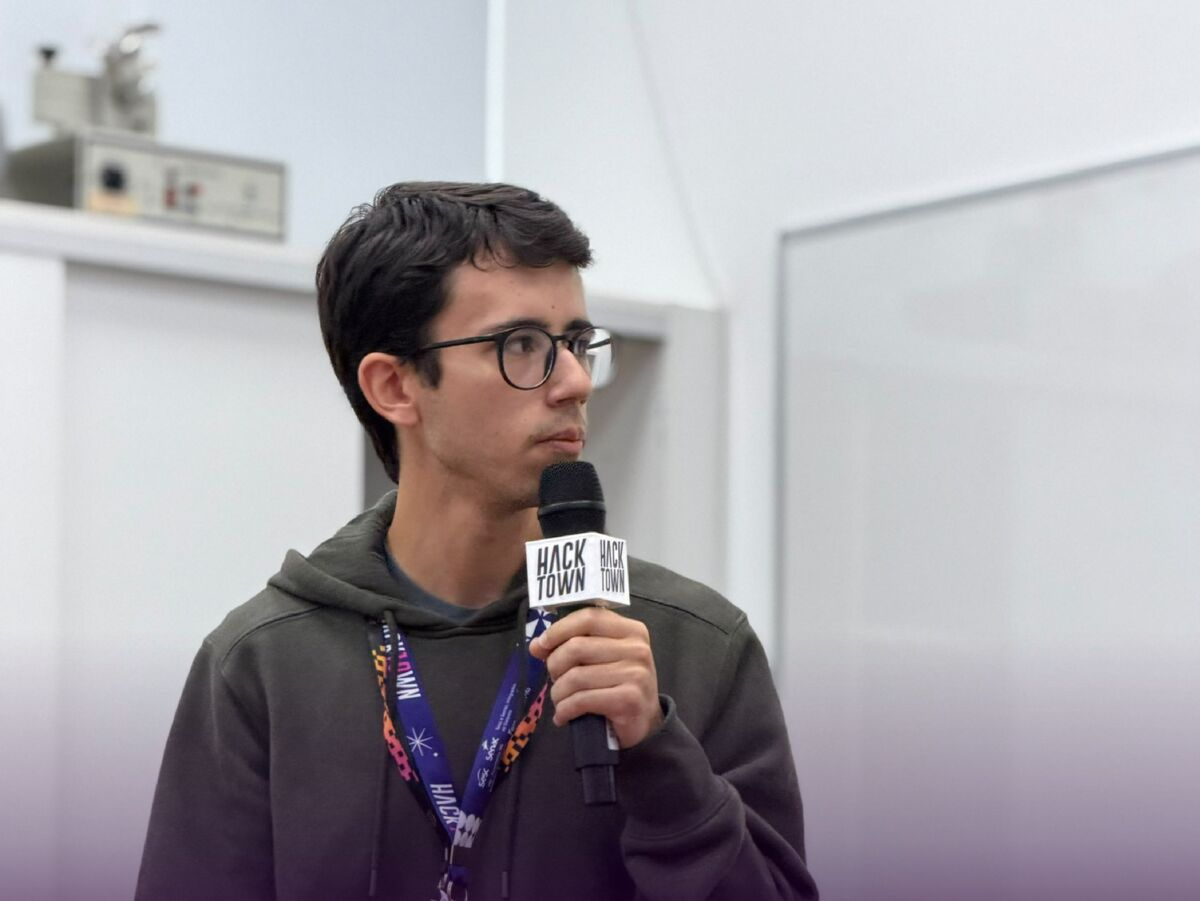
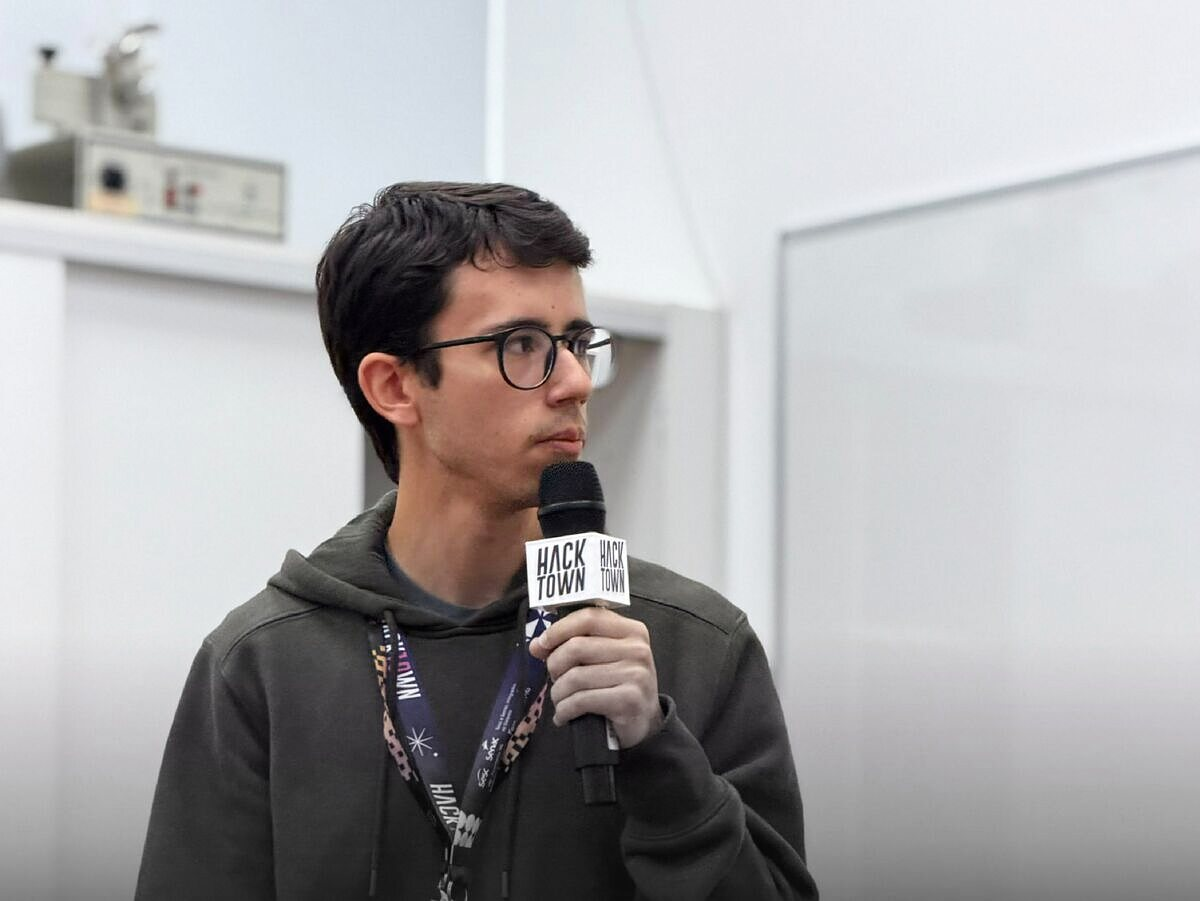
Put photos on the site and keep them out of Google Images (#5)
* Put photos on the site and keep them out of Google Images

HackTown is the main photo in the About section. NASA Space Apps gets its
photo on the talk, a face avatar sits next to the contact intro and the
desktop About window, and the Files app now has a Fotos album with every
portrait plus Startup Weekend 2025 and the favourite one by the sea.

Photos are served at 1200px with metadata stripped, robots.txt blocks
Googlebot-Image from /images/, and photo tags can't be dragged out or
saved from the context menu.

* Grade the photos and frame thumbnails on the face

Each photo is re-processed from the original: light contrast across the
set, the studio portrait loses half of its lavender cast, the sofa shot
gets its contrast back, and the purple fade at the bottom of the HackTown
photo becomes a neutral one. Small sharpening after the resize.

Portrait thumbnails in Files and Palestras now sit on the face instead of
the chest, and the Startup Weekend 2025 photo says he was a participant.

---------

Changed region(s): [[0.3083, 0.7148, 0.4625, 0.9323], [0.4625, 0.6837, 0.555, 0.7769], [0.37, 0.9634, 0.4008, 1.0]]

diff --git a/src/components/desktop/Files.jsx b/src/components/desktop/Files.jsx
@@ -5,10 +5,12 @@ import { ArrowUpRight, ChevronLeft, ChevronRight, FileText, Folder, Image, X } f
 import { projects } from "../../data/projects"
 import { publications } from "../../data/publications"
 import { talks } from "../../data/talks"
+import { photos } from "../../data/photos"
+import { photoGuard } from "../../lib/photoGuard"
 
 /*
  * O app Arquivos: o conteúdo do site arrumado como num Finder. Projetos são
- * pastas, artigos são PDFs e as fotos de palco são imagens. Espaço abre a
+ * pastas, artigos são PDFs e as fotos (palco e retratos) são imagens. Espaço abre a
  * prévia rápida (como o Quick Look do Mac), Enter ou duplo clique abre.
  */
 
@@ -68,7 +70,19 @@ const FOLDERS = [
         caption: talk.title,
         sub: `${talk.location} · ${talk.dateLabel}`,
         links: talk.toolHref ? [{ label: talk.toolLabel, href: talk.toolHref, internal: true }] : [],
-      })),
+      }))
+      .concat(
+        photos.map((photo) => ({
+          id: photo.id,
+          kind: "image",
+          name: `${photo.id}.jpg`,
+          detail: photo.detail,
+          src: photo.src,
+          caption: photo.caption,
+          sub: photo.sub,
+          links: [],
+        }))
+      ),
   },
 ]
 
@@ -89,7 +103,8 @@ function Thumb({ item, size = "lg" }) {
         src={item.src}
         alt=""
         loading="lazy"
-        className={`${size === "lg" ? "h-16 w-20" : "h-5 w-6"} rounded-md border border-line object-cover`}
+        className={`photo-guard ${size === "lg" ? "h-16 w-20" : "h-5 w-6"} rounded-md border border-line object-cover object-[50%_22%]`}
+        {...photoGuard}
       />
     )
   }
@@ -344,7 +359,12 @@ function QuickLook({ items, index, onIndex, onOpen, onClose }) {
         <div className="min-h-0 overflow-y-auto">
           {item.kind === "image" ? (
             <figure>
-              <img src={item.src} alt={item.caption} className="max-h-[70vh] w-full bg-black object-contain" />
+              <img
+                src={item.src}
+                alt={item.caption}
+                className="photo-guard max-h-[70vh] w-full bg-black object-contain"
+                {...photoGuard}
+              />
               <figcaption className="px-5 py-4">
                 <p className="font-medium text-ink">{item.caption}</p>
                 <p className="mt-0.5 text-sm text-muted">

diff --git a/src/components/desktop/AppViews.jsx b/src/components/desktop/AppViews.jsx
@@ -8,6 +8,8 @@ import { publications } from "../../data/publications"
 import { projects } from "../../data/projects"
 import { timelineEntries } from "../../data/timeline"
 import { writing } from "../../data/writing"
+import { portrait } from "../../data/photos"
+import { photoGuard } from "../../lib/photoGuard"
 import { Mark } from "../ui/Mark"
 import { Suspense } from "react"
 import { AiRuler, Eduflow } from "../../pages/lazy"
@@ -60,7 +62,17 @@ function Pane({ eyebrow, title, children }) {
 export function AboutView() {
   return (
     <div className="p-5 md:p-7">
-      <p className="label text-accent">Boas-vindas</p>
+      <div className="flex items-center gap-4">
+        <img
+          src={portrait.src}
+          alt={portrait.alt}
+          width="56"
+          height="56"
+          className="photo-guard h-14 w-14 shrink-0 rounded-full border border-line object-cover"
+          {...photoGuard}
+        />
+        <p className="label text-accent">Boas-vindas</p>
+      </div>
       <h1 className="display mt-3 text-balance text-3xl text-ink md:text-4xl">
         Construo software e ajudo empresas a usar IA{" "}
         <span className="italic text-accent">no lugar certo.</span>
@@ -175,7 +187,8 @@ export function TalksView() {
                 src={talk.photo}
                 alt=""
                 loading="lazy"
-                className="h-16 w-20 shrink-0 rounded-md object-cover"
+                className="photo-guard h-16 w-20 shrink-0 rounded-md object-cover object-[50%_22%]"
+                {...photoGuard}
               />
             ) : (
               <span className="label grid h-16 w-20 shrink-0 place-items-center rounded-md bg-surface-2 text-muted">

diff --git a/src/data/photos.js b/src/data/photos.js
@@ -1,0 +1,44 @@
+/**
+ * Fotos que não são de palco: retratos e momentos. As de palestra e mentoria
+ * ficam no campo `photo` de src/data/talks.js. Tudo é servido já reduzido
+ * (1200px no lado maior, sem metadados) e o robots.txt tira /images/ do
+ * Google Imagens.
+ */
+/** Avatar quadrado (rosto recortado de retrato.jpg) para contato e "Sobre mim". */
+export const portrait = {
+  src: "/images/photos/avatar.jpg",
+  alt: "Luis Ricardo Santos sorrindo",
+}
+
+export const photos = [
+  {
+    id: "startup-weekend-2025",
+    src: "/images/talks/startup-weekend-2025.jpg",
+    caption: "Participante no Startup Weekend 2025",
+    detail: "Startup Weekend Smart Cities",
+    sub: "Participante · 2025",
+  },
+  { id: "retrato", src: "/images/photos/retrato.jpg", caption: "Retrato", detail: "Retrato", sub: "Tech for Humans" },
+  {
+    id: "retrato-perfil",
+    src: "/images/photos/retrato-perfil.jpg",
+    caption: "Retrato",
+    detail: "Retrato",
+    sub: "Tech for Humans",
+  },
+  {
+    id: "retrato-estudio",
+    src: "/images/photos/retrato-estudio.jpg",
+    caption: "Retrato em estúdio",
+    detail: "Retrato",
+    sub: "Ensaio",
+  },
+  {
+    id: "retrato-sofa",
+    src: "/images/photos/retrato-sofa.jpg",
+    caption: "Retrato",
+    detail: "Retrato",
+    sub: "Ensaio",
+  },
+  { id: "mar", src: "/images/photos/mar.jpg", caption: "A favorita", detail: "Fora do expediente", sub: "No mar" },
+]

diff --git a/src/components/sections/Contact.jsx b/src/components/sections/Contact.jsx
@@ -2,6 +2,8 @@ import { ArrowUpRight, Github, Linkedin, Mail, PenLine } from "lucide-react"
 import { SectionTitle } from "../ui/SectionTitle"
 import { Reveal } from "../ui/Reveal"
 import { site, contactIntents, mailto } from "../../data/site"
+import { portrait } from "../../data/photos"
+import { photoGuard } from "../../lib/photoGuard"
 
 const links = [
   { href: `mailto:${site.email}`, icon: Mail, label: "Email", text: site.email },
@@ -15,7 +17,17 @@ export function Contact() {
     <section id="contato" className="mx-auto max-w-6xl px-6 py-24 md:py-32">
       <SectionTitle index="08" eyebrow="Contato" title="Me conta o que você precisa." />
 
-      <Reveal className="mt-10 max-w-2xl">
+      <Reveal className="mt-10 flex max-w-2xl items-center gap-5">
+        <img
+          src={portrait.src}
+          alt={portrait.alt}
+          loading="lazy"
+          decoding="async"
+          width="80"
+          height="80"
+          className="photo-guard h-16 w-16 shrink-0 rounded-full border border-line object-cover md:h-20 md:w-20"
+          {...photoGuard}
+        />
         <p className="text-pretty text-lg leading-relaxed text-ink-soft md:text-xl">
           Um site, um sistema, uma dúvida sobre IA no seu negócio, uma palestra. Escolha o
           motivo e o email já sai com o assunto certo. Respondo pessoalmente.

diff --git a/src/components/sections/About.jsx b/src/components/sections/About.jsx
@@ -1,6 +1,11 @@
 import { SectionTitle } from "../ui/SectionTitle"
 import { Reveal } from "../ui/Reveal"
+import { Figure } from "../ui/Figure"
 import { about } from "../../data/about"
+import { talks } from "../../data/talks"
+
+// A foto principal do site: o palco do HackTown
+const stage = talks.find((talk) => talk.id === "hacktown-2026")
 
 const stats = [
   { value: String(about.yearsAtCompany), label: "anos na Tech for Humans" },
@@ -55,6 +60,14 @@ export function About() {
         </div>
 
         <Reveal delay={0.08} className="min-w-0">
+          <Figure
+            src={stage.photo}
+            alt="Luis Ricardo no palco do HackTown 2026, segurando o microfone"
+            caption={`${stage.event} · ${stage.title}`}
+            ratio="4 / 3"
+            position="35% 30%"
+            className="mb-12"
+          />
           <p className="label text-muted">Onde eu atuo</p>
           <dl className="mt-5">
             {about.stack.map((group) => (

diff --git a/src/components/ui/Figure.jsx b/src/components/ui/Figure.jsx
@@ -2,7 +2,9 @@
  * Imagem com proporção fixa. Só é usada quando existe arquivo — os dados
  * guardam `null` enquanto a foto não chega, e o chamador nem renderiza.
  */
-export function Figure({ src, alt, caption, ratio = "4 / 3", className = "" }) {
+import { photoGuard } from "../../lib/photoGuard"
+
+export function Figure({ src, alt, caption, ratio = "4 / 3", position, className = "" }) {
   if (!src) return null
 
   return (
@@ -16,7 +18,9 @@ export function Figure({ src, alt, caption, ratio = "4 / 3", className = "" }) {
           alt={alt}
           loading="lazy"
           decoding="async"
-          className="h-full w-full object-cover"
+          className="photo-guard h-full w-full object-cover"
+          style={position ? { objectPosition: position } : undefined}
+          {...photoGuard}
         />
       </div>
       {caption && (

diff --git a/vite.config.js b/vite.config.js
@@ -179,7 +179,8 @@ function staticRoutes() {
       writeFileSync(resolve("dist/sitemap.xml"), sitemap)
       writeFileSync(
         resolve("dist/robots.txt"),
-        `User-agent: *\nAllow: /\n\nSitemap: ${ORIGIN}/sitemap.xml\n`
+        // Fotos pessoais fora do Google Imagens; as páginas continuam indexadas
+        `User-agent: *\nAllow: /\n\nUser-agent: Googlebot-Image\nDisallow: /images/\n\nSitemap: ${ORIGIN}/sitemap.xml\n`
       )
     },
   }

diff --git a/src/index.css b/src/index.css
@@ -120,6 +120,13 @@ section[id] {
   color: var(--accent-ink);
 }
 
+/* Fotos pessoais: sem o menu de toque longo do iOS nem seleção (ver lib/photoGuard.js) */
+.photo-guard {
+  -webkit-touch-callout: none;
+  -webkit-user-drag: none;
+  user-select: none;
+}
+
 /* Em @layer base para que `outline-none` (camada utilities) consiga desligar o
    anel onde o próprio componente já mostra o foco, como os inputs com caret. */
 @layer base {

diff --git a/src/lib/photoGuard.js b/src/lib/photoGuard.js
@@ -1,0 +1,9 @@
+/**
+ * Props para as fotos pessoais: sem arrastar para fora e sem o menu de
+ * "Salvar imagem". Não impede print nem quem abre o DevTools; só tira o
+ * caminho fácil. A classe `photo-guard` (index.css) cobre o toque longo do iOS.
+ */
+export const photoGuard = {
+  draggable: false,
+  onContextMenu: (event) => event.preventDefault(),
+}

diff --git a/src/data/talks.js b/src/data/talks.js
@@ -65,7 +65,7 @@ export const talks = [
     location: "Itajubá, MG",
     date: "2025-09-01",
     dateLabel: "setembro de 2025",
-    photo: null,
+    photo: "/images/talks/mentor-nasa.jpg",
   },
   {
     id: "mentor-startup-weekend",

diff --git a/public/images/README.md b/public/images/README.md
@@ -4,8 +4,16 @@ Convenção de nomes. Depois de colocar o arquivo aqui, aponte o caminho no
 campo correspondente em `src/data/` — a imagem só é renderizada quando o
 campo está preenchido, então nunca aparece placeholder vazio no site.
 
-- `portrait.jpg` — retrato, usado em `src/data/about.js` (campo `portrait`)
 - `talks/<id-da-palestra>.jpg` — foto de palco/stand, campo `photo` em `src/data/talks.js`
+- `photos/<id>.jpg` — retratos e momentos, lista em `src/data/photos.js` (aparecem no álbum Fotos do app Arquivos)
+- `photos/avatar.jpg` — rosto recortado em quadrado, usado no contato e na janela "Sobre mim"
 - `projects/<id-do-projeto>.jpg` — screenshot, campo `image` em `src/data/projects.js`
 
-Formato sugerido: JPG ou WebP, 1600px no lado maior, abaixo de 300KB.
+Formato: JPG, 1200px no lado maior, sem metadados (EXIF/GPS). Para preparar:
+
+    magick original.jpg -auto-orient -strip -resize '1200x1200>' -interlace JPEG -quality 82 destino.jpg
+
+Proteção: o `robots.txt` (gerado em `vite.config.js`) tira `/images/` do
+Google Imagens, e as fotos usam `photoGuard` (`src/lib/photoGuard.js`) para
+não serem arrastadas nem salvas pelo clique direito. É dissuasão, não DRM:
+print continua funcionando.
